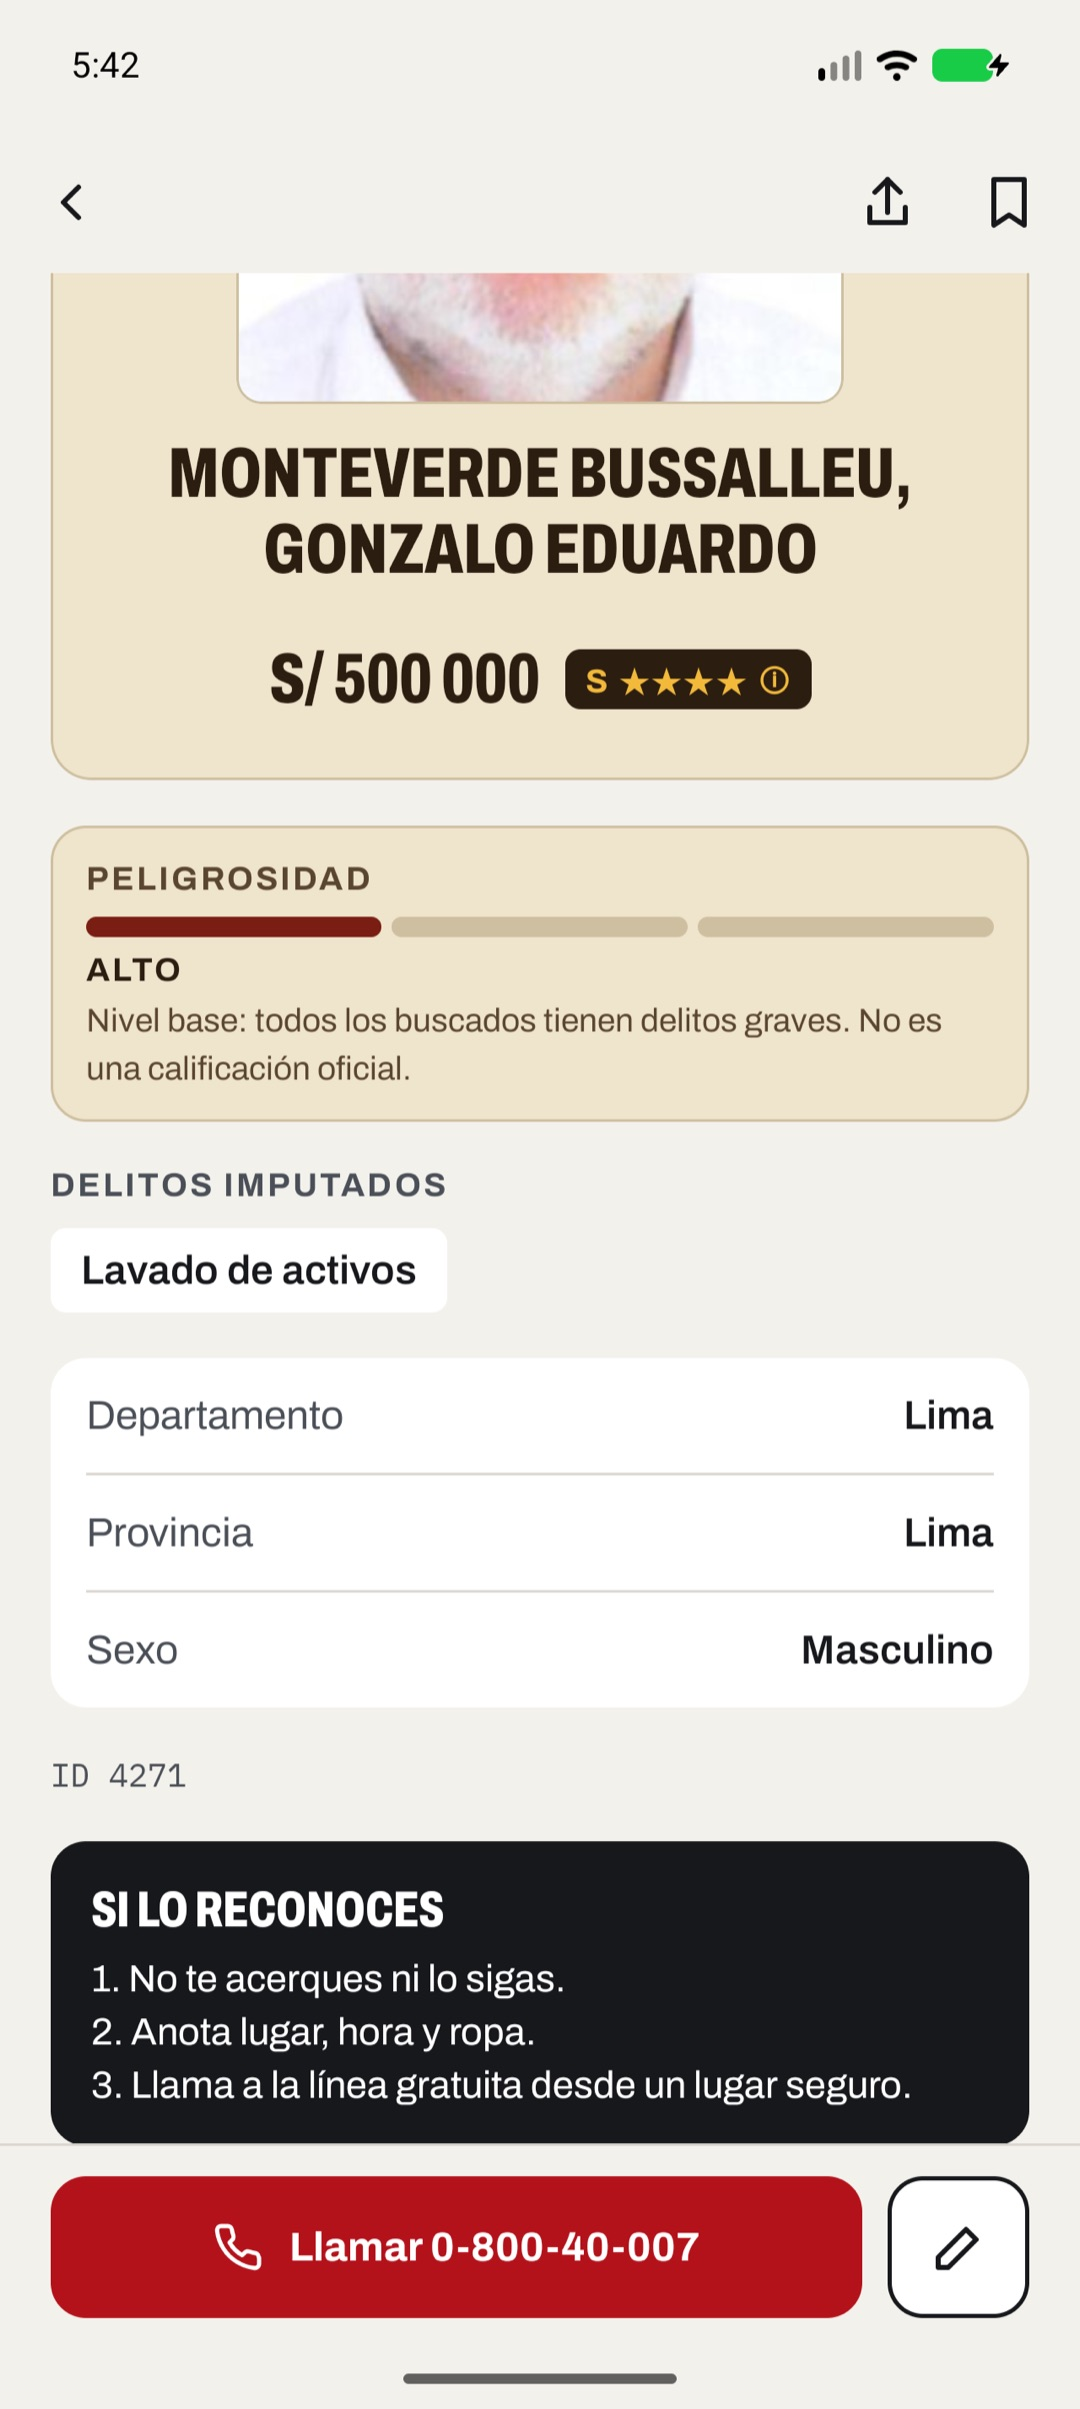
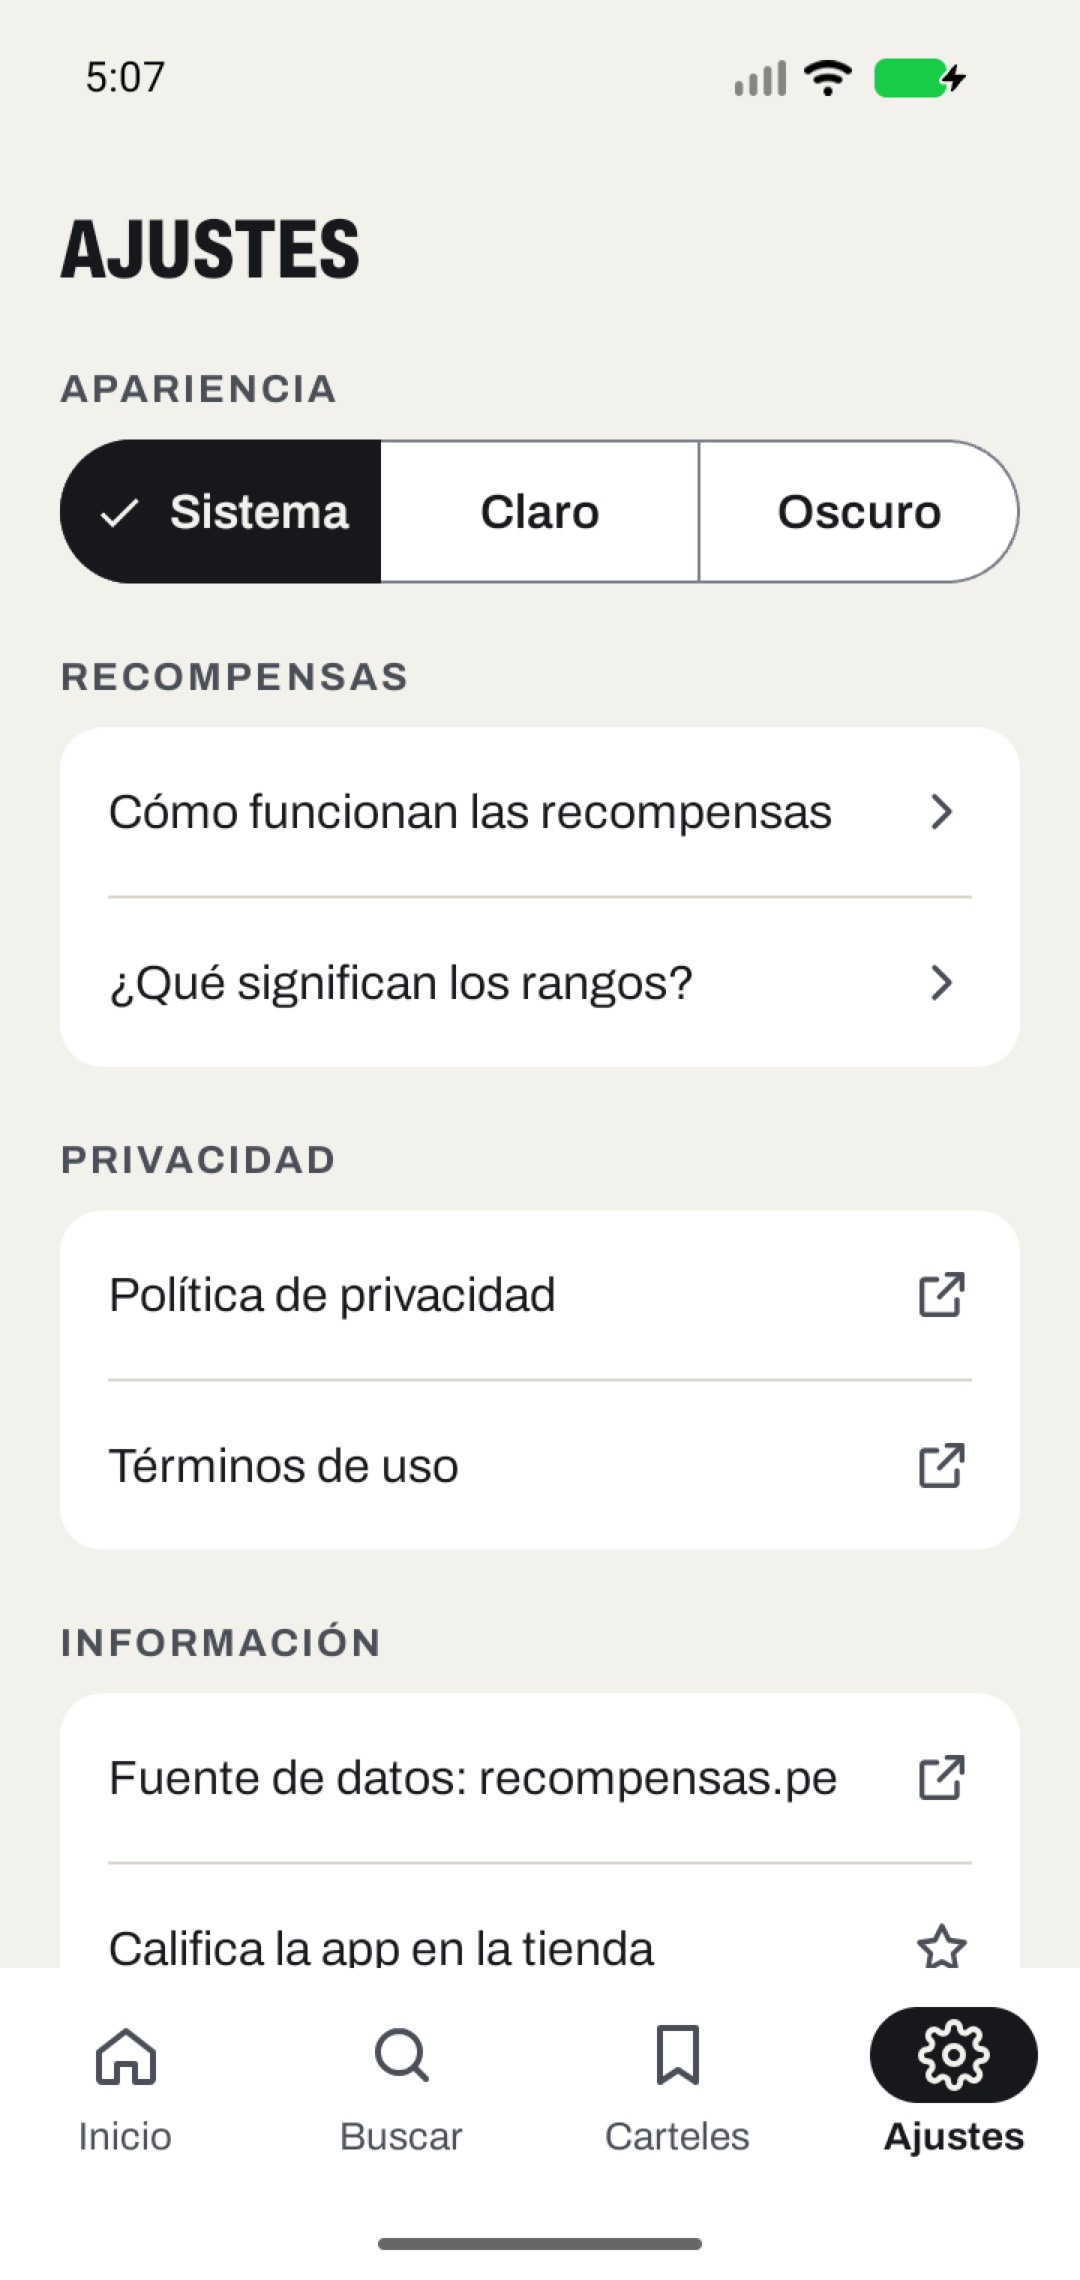
docs: fix mislabeled regime and legend screenshots

diff --git a/docs/DECISIONES.md b/docs/DECISIONES.md
@@ -14,8 +14,11 @@ Registro de lo que se verificó contra la API real y de las decisiones que cambi
 - Peligrosidad estimada **solo por delito** (palabras clave; sin coincidencia: "Nivel base"), nunca por monto.
 - Postergados (ver D16): filtro por clase y posición nacional.
 - "Cerca de ti" usa el departamento elegido por la persona (DataStore); sin elegir muestra la invitación.
-- Verificación final: Android 360 dp (release, R8) a letra 1,0/1,3/2,0 y tema oscuro; iPhone SE a letra
-  normal y accesibilidad XL. Defecto hallado y corregido: botón "Cerrar" de la leyenda ilegible en oscuro.
+- Verificación final: Android a 360 dp (release, R8) con letra 1,0/1,3/2,0 y una pasada en oscuro.
+  Defecto hallado y corregido: botón "Cerrar" de la leyenda ilegible en oscuro.
+- **No probado:** Android a ≈ 320 dp (solo se midió 360 dp). En iOS (iPhone SE) solo se capturó Inicio
+  (normal, accesibilidad XL y oscuro); Ficha, Buscar, Régimen, Leyenda y Mis carteles siguen pendientes
+  en iOS. `ios-01-att.jpg` e `ios-03-ficha-deep-link.jpg` muestran el diseño anterior.
 
 ### D17. Compartir el cartel como imagen
 - El botón Compartir de la ficha dibuja `SharePosterContent` fuera de pantalla (1080 × 1350 px, densidad
